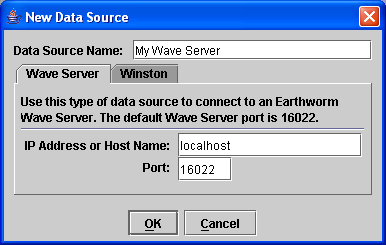
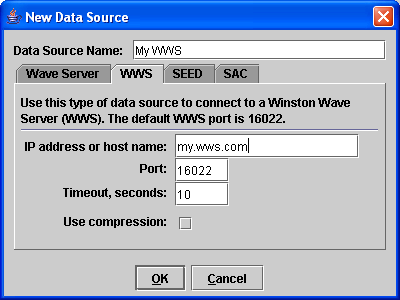
1.2.0.20050922 changes.

diff --git a/index.html b/index.html
@@ -1,5 +1,8 @@
 <!--
 $Log: not supported by cvs2svn $
+Revision 1.1  2005/08/26 20:40:28  dcervelli
+Initial avosouth commit.
+
 Revision 1.6  2005/04/25 22:46:30  cervelli
 Changes for 1.1.11/1.1.12 versions.
 
@@ -26,14 +29,13 @@ Changes for 1.1.7 release.
 	
 		<table width="800px" cellspacing="0" cellpadding="0"><tr><td>
 
-	
 		<center>
 			<a href="screenshot_full.png"><img border="0" src="screenshot_small.png"></a><br>
 			<b>Click image for full size version.</b>
 		</center>
 	
 		<b><u>Introduction</u></b><br>
-		<b>Swarm</b> is a program for the real-time analysis of seismic waveform data.  Currently it can load data from Earthworm Wave Servers and the under-development Winston system.<br>
+		<b>Swarm</b> is a program for the real-time analysis of seismic waveform data.  Currently it can load data from Earthworm Wave Servers, Winston Wave Servers, SEED volumes, and SAC files.<br>
 
 		<br>
 		This is a <b>beta</b> version of Swarm.  There are missing features, known bugs, and other limitations to this version.
@@ -41,28 +43,16 @@ Changes for 1.1.7 release.
 		Please email me bug reports or feature requests.  No bug report is too minor (such as a minor UI quirk).  My email address is:
 		<a href="mailto:dcervelli@stanford.edu">dcervelli@stanford.edu</a><br>
 		<br>
-		The current version is: <b>1.1.12.20050425</b><br>
-		<b>Important note #1: Channel names in Wave Servers (both WWS and Earthworm) are now space separated instead of underscore separated. This
-		means that your SwarmGroups.config and SwarmKiosk.config files may need to change.</b><br>
+		The current version is: <b>1.2.0.20050922</b><br>
+		<b>Important note #1: Swarm now REQUIRES Java 1.5.</b><br>
 		<br>
-		<b>Important note #2: Version 1.1.12 fixes a bug that was causing Earthworm Wave Server data sources to not start in kiosk mode properly.</b><br> 
-		<br>
-		<b>Important note #3: We have now finalized the communication protocol for Winston Wave Servers (WWS) and there have been changes. 
-		Consequently, version 1.1.10 will NO LONGER WORK with the pubavo1.wr.usgs.gov WWS.  Please upgrade to 1.1.12 immediately.</b><br>
-		<br>
-		Recent changes of note:<br>
-		<b>Swarm</b> can access Winston Wave Servers.<br>
-		<b>Swarm</b> can now read and write <b>SAC</b> files on the clipboard.<br>
-
-		<br>
-		<b>NOTE:</b> There have been some minor changes to the Swarm.config file so it is recommended that you do not reuse your old Swarm.config file.  I apologize for this and will make every effort to avoid changing formats in the future.<br>
+		<b>Important note #2: While some sections of the manual have been updated, there are many that are quite out of date.</b><br>
 		<br>
 		A <a href="manual/appendixC.html">list of bug fixes and changes</a> can be found in Appendix C of the manual.<br>
 		<br>
 
 		<b><u>Installation</u></b><br>
-		1.  Install Java Runtime Environment (or SDK) v1.4+.  Available at <a href="http://java.sun.com/j2se/1.4.2/index.jsp">http://java.sun.com/j2se/1.4.2/index.jsp</a><br>
-		Note: The recently released Java 1.5 or (Java 5.0) can also be used to run Swarm.<br>
+		1.  Install Java Runtime Environment (or SDK) <b>1.5</b> (also known as Java 5.0).  Available at <a href="http://java.sun.com/j2se/1.5.0/index.jsp">http://java.sun.com/j2se/1.5.0/index.jsp</a><br>
 		<br>
 		2.  Download Swarm.<br>
 		zip: <a href="http://www.stanford.edu/~dcerv/swarm/swarm-bin.zip">http://www.stanford.edu/~dcerv/swarm/swarm-bin.zip</a><br>
@@ -75,12 +65,6 @@ Changes for 1.1.7 release.
 		<br>
 		5.  Go through the <a href="manual/tutorial.html">tutorial</a>.  This will quickly get you started using <b>Swarm</b>.<br>
 
-		<br>
-		
-		<b><u>Notes and Issues</u></b><br>
-		-- There is a manual included.  The starting point for the manual is the 'index.html' file under the 'swarm/manual' directory.
-		The manual is also available <a href="manual/index.html">online</a>. <b>The manual is becoming a bit out of date
-		and does not reflect all of the changes sinces version 1.1.4.</b><br>
 		<br>
 		
 		</td></tr></table>

diff --git a/manual/sectionVIII.html b/manual/sectionVIII.html
@@ -1,3 +1,5 @@
+<!-- $Id: sectionVIII.html,v 1.2 2005-09-22 21:01:42 dcervelli Exp $ -->
+
 <html>
 	<head>
 		<!-- javascript include version -->
@@ -10,7 +12,7 @@
 	<body>
 		<h1>Section VIII, Kiosk Mode</h1>
 		
-		<a name="intro"><h2>Introduction</h2>
+		<a name="intro"></a><h2>Introduction</h2>
 		<p>
 		<b>Swarm</b> can be used as a <i>much</i> lower cost, more functional replacement to the traditional helicorder by using its Kiosk Mode.
 		In Kiosk Mode <b>Swarm</b> displays all of the open helicorders in full-screen mode.  This make seismic monitoring as easy as a glance 
@@ -23,21 +25,14 @@
 		just switch to normal mode.
 		</p>
 		
-		<a name="setup"><h2>Configuring Automatic Kiosk Mode</h2>
-		<p><b>Swarm</b> can be automatically start in Kiosk Mode by running it with the '-k' or '--kiosk' option.  In this case, <b>Swarm</b> will 
-		read the file (in the directory in which it was run) called 'SwarmKiosk.config'.  The format of this file is very simple, best demonstrated
-		with an example file:<br>
-		<pre>
-# SwarmKiosk.config
-# channel=[data source];[channel]{;optional options: x=[minutes],y=[hours]}
-
-# Crater Peak Vertical
-channel=AVO Winston;CRP_SHZ_AK;x=20,y=24
-
-# Crater Peak East
-channel=AVO Winston;CRP_SHE_AK;x=20,y=24
-		</pre>
-		The data source specified has to be one of the configured data sources (see <a href="sectionIX.html">Advanced Topics</a>, Swarm Configuration File).
+		<a name="setup"></a><h2>Configuring Automatic Kiosk Mode</h2>
+		<p><b>Swarm</b> can be automatically start in Kiosk Mode by running it with the '--kiosk=[parameters]' option or through
+		the configuration file.  The value of the 'kiosk' parameter is <code>[server name];[channel]</code>. Example:<br>
+		<br>
+		<code>swarm --kiosk="localhost;BGL SHZ AK" --saveConfig=false --timeChunk=15</code><br>
+		<br>
+		The data source specified has to be one of the configured data sources.
+		See <a href="sectionIX.html">Advanced Topics</a>, for more information about this topic.
 	</body>
 </html>
 		

diff --git a/manual/sectionII.html b/manual/sectionII.html
@@ -1,3 +1,5 @@
+<!-- $Id: sectionII.html,v 1.2 2005-09-22 21:01:42 dcervelli Exp $ -->
+
 <html>
 	<head>
 		<!-- javascript include version -->
@@ -54,8 +56,8 @@
 			
 			<p>
 			If the Waves tab is selected in the Channel Selector then a wave can
-			be opened into one of two places: a <a href="sectionV.html">real-time wave viewer</a>
-			frame or onto the <a href="sectionVI.html">Wave Clipboard</a>.  Select the appropriate button to open
+			be opened into one of three places: a <a href="sectionV.html">real-time wave viewer</a>
+			frame, the <a href="">real-time wave monitor</a>, or onto the <a href="sectionVI.html">Wave Clipboard</a>.  Select the appropriate button to open
 			the wave accordingly.  Also, double-clicking on a channel will open
 			it into a real-time wave viewer frame.
 			</p>
@@ -91,7 +93,8 @@
 			<p>
 			You need to specify a unique name for the data source (which is then 
 			displayed in the Data Source Chooser), the Wave Server host name
-			or IP address, and the port number. 
+			or IP address, port number, and communication timeout time (under most
+			circumstances the default of 2 seconds is fine). 
 			</p>
 			
 			<p>
@@ -107,13 +110,20 @@
 			and analysis from the <b>Swarm</b> cache.  
 			</p>
 			
-			<h3>Winston Servers</h3>
+			<h3>Winston Wave Servers</h3>
 			<p>
-			Winston Servers are another
-			data source for <b>Swarm</b>.  Winston Servers store both derived
-			helicorder data and raw wave data.  Winston is still under heavy
-			development at the Alaska Volcano Observatory so is not available
-			to non-AVO users at this time.
+			Winston Wave Servers are another
+			data source for <b>Swarm</b>.  Winston Wave Servers store both derived
+			helicorder data and raw wave data.  <b>More information forthcoming.</b>
+			
+			<h3>SEED</h3>
+			<p>
+			<b>More information forthcoming.</b>
+			
+			<h3>SAC</h3>
+			<p>
+			<b>More information forthcoming.</b>
+			
 			</p>
 		</body>
 </html>

diff --git a/manual/sectionIX.html b/manual/sectionIX.html
@@ -1,5 +1,8 @@
 <!--
 $Log: not supported by cvs2svn $
+Revision 1.1  2005/08/26 20:40:28  dcervelli
+Initial avosouth commit.
+
 Revision 1.2  2005/03/27 21:52:12  cervelli
 Changes for Save All and SAC files.
 
@@ -57,21 +60,17 @@ Changes for Save All and SAC files.
 		
 		<a name="config"></a><h2>Swarm Command Line Options</h2>
 		<p>
-		These command line options can be used:<br>
+		<b>Swarm</b> parses the command line to override or set variables in the configuration file,
+		'Swarm.config' or one specified on the command line.  The format is:<br>
 		<br>
-		<code>--config [file]</code> or <code>-c [file]</code> - Specify a particular file to be used as a Swarm configuration file.<br>
-		<br>
-		<code>--kiosk [file]</code> or <code>-k [file]</code> - Specify a particular file to be used as an 
-		<a href="sectionVIII.html#setup">automatic Kiosk Mode configuration file</a>.<br>
-		<br>
-		<code>--group [file]</code> or <code>-g [file]</code> - Specify a particular file to be used as a channel group configuration file.<br>
-		<br>
-		<code>--sleep [#]</code> or <code>-s [#]</code> - Sleep for a specificed number of seconds before launching Swarm.<br>
+		<code>swarm --[variable1]=[value1] --[variable2]=[value2] [optional config file]</code><br>
 		<br>
 		Example:<br>
-		<code>swarm --config s1.config --group g1.config --kiosk k1.config --sleep 1.5</code>
-		
-		
+		<br>
+		<code>swarm --kiosk="localhost;BGL SHZ AK" --saveConfig=false --timeChunk=15</code><br>
+		<br>
+		This example would start <b>Swarm</b> in Kiosk Mode using the channel BGL SHZ AK from the localhost server
+		with a 15-minute x-axis.  Also, when <b>Swarm</b> exited it wouldn't save the config file.
 		</p>
 	</body>
 </html>

diff --git a/manual/sectionI.html b/manual/sectionI.html
@@ -1,3 +1,5 @@
+<!-- $Id: sectionI.html,v 1.2 2005-09-22 21:01:42 dcervelli Exp $ -->
+
 <html>
 	<head>
 		<!-- javascript include version -->
@@ -29,7 +31,7 @@
 		
 		<a name="req"></a><h2>System Requirements</h2>
 		<p>
-			<b>Swarm</b> should run on any system with a Java version 1.4 or greater,
+			<b>Swarm</b> should run on any system with a Java version 1.5 or greater,
 			see <a href="#inst">Installation and Running</a>, and a graphics
 			display.  However, it should be noted that <b>Swarm</b> frequently
 			deals with large quantities of data and does complex calculations 
@@ -40,7 +42,7 @@
 		<a name="inst"></a><h2>Installation and Running</h2>
 		<p>
 			<b>Swarm</b> is written in Java so you will need to have Java installed
-			on your system.  <b>Java version 1.4 or greater is required</b>.
+			on your system.  <b>Java version 1.5 or greater is required</b>.
 			Please make sure that you have at least this version or else 
 			<b>Swarm</b> will not work.  The latest versions of Java can be 
 			found at the <a href="http://java.sun.com/j2se">Java Technology</a>
@@ -50,7 +52,7 @@
 		
 		<p>
 			After Java is installed you are ready to download and install
-			<b>Swarm</b>.  First, download the latest version <a href="">here</a>.
+			<b>Swarm</b>.  First, download the latest version <a href="http://www.stanford.edu/~dcerv/swarm">here</a>.
 			This zip or tar contains everything you need to run Swarm.  Everything
 			in the zip or tar is located under the directory "swarm/" so you can
 			safely unzip it wherever you like.

diff --git a/manual/index.html b/manual/index.html
@@ -1,5 +1,8 @@
 <!--
 $Log: not supported by cvs2svn $
+Revision 1.1  2005/08/26 20:40:28  dcervelli
+Initial avosouth commit.
+
 Revision 1.2  2005/03/27 21:51:28  cervelli
 Added command line options section.
 
@@ -20,8 +23,8 @@ Added command line options section.
 		<p><b>Table of Contents</b></p>
 		
 		<p>
-			<a href="sectionI.html">I. Introduction</a><br>
-			<ul><a href="sectionI.html#about">About</a><br></ul>
+			<a href="sectionI.html"></a>I. Introduction</a><br>
+			<ul><a href="sectionI.html#about">About</a></ul>
 			<ul><a href="sectionI.html#req">System Requirements</a></ul>
 			<ul><a href="sectionI.html#inst">Installation and Running</a></ul>
 			<ul><a href="sectionI.html#bugs">Bugs</a></ul>

diff --git a/manual/appendixC.html b/manual/appendixC.html
@@ -1,5 +1,8 @@
 <!--
 $Log: not supported by cvs2svn $
+Revision 1.1  2005/08/26 20:40:28  dcervelli
+Initial avosouth commit.
+
 Revision 1.9  2005/04/25 22:46:00  cervelli
 Added 1.1.11 and 1.1.12 changes.
 
@@ -47,6 +50,15 @@ Updated changelog.
 		</p>
 		
 <h2>Changelog</h2>
+
+<p>
+<i>1.2.0.20050922</i><br>
+[UI/Internal] Many bug fixes.<br>
+[Feature] Helicorder scaling slider.<br>
+[Feature] Export Helicorder images.<br>
+[Feature] Duration magnitude calculation.<br>
+[Internal] Major rewrite of many interal workings to use Java 1.5.<br>
+</p>
 
 <p>
 <i>1.1.12.20050425</i><br>

diff --git a/manual/sectionIII.html b/manual/sectionIII.html
@@ -1,3 +1,5 @@
+<!-- $Id: sectionIII.html,v 1.2 2005-09-22 21:01:42 dcervelli Exp $ -->
+
 <html>
 	<head>
 		<!-- javascript include version -->

diff --git a/manual/sectionVII.html b/manual/sectionVII.html
@@ -1,3 +1,5 @@
+<!-- $Id: sectionVII.html,v 1.2 2005-09-22 21:01:42 dcervelli Exp $ -->
+
 <html>
 	<head>
 		<!-- javascript include version -->

diff --git a/manual/appendixA.html b/manual/appendixA.html
@@ -1,3 +1,5 @@
+<!-- $Id: appendixA.html,v 1.2 2005-09-22 21:01:42 dcervelli Exp $ -->
+
 <html>
 	<head>
 		<!-- javascript include version -->

diff --git a/manual/appendixB.html b/manual/appendixB.html
@@ -1,3 +1,5 @@
+<!-- $Id: appendixB.html,v 1.2 2005-09-22 21:01:42 dcervelli Exp $ -->
+
 <html>
 	<head>
 		<!-- javascript include version -->

diff --git a/manual/sectionIV.html b/manual/sectionIV.html
@@ -1,3 +1,5 @@
+<!-- $Id: sectionIV.html,v 1.2 2005-09-22 21:01:42 dcervelli Exp $ -->
+
 <html>
 	<head>
 		<!-- javascript include version -->
